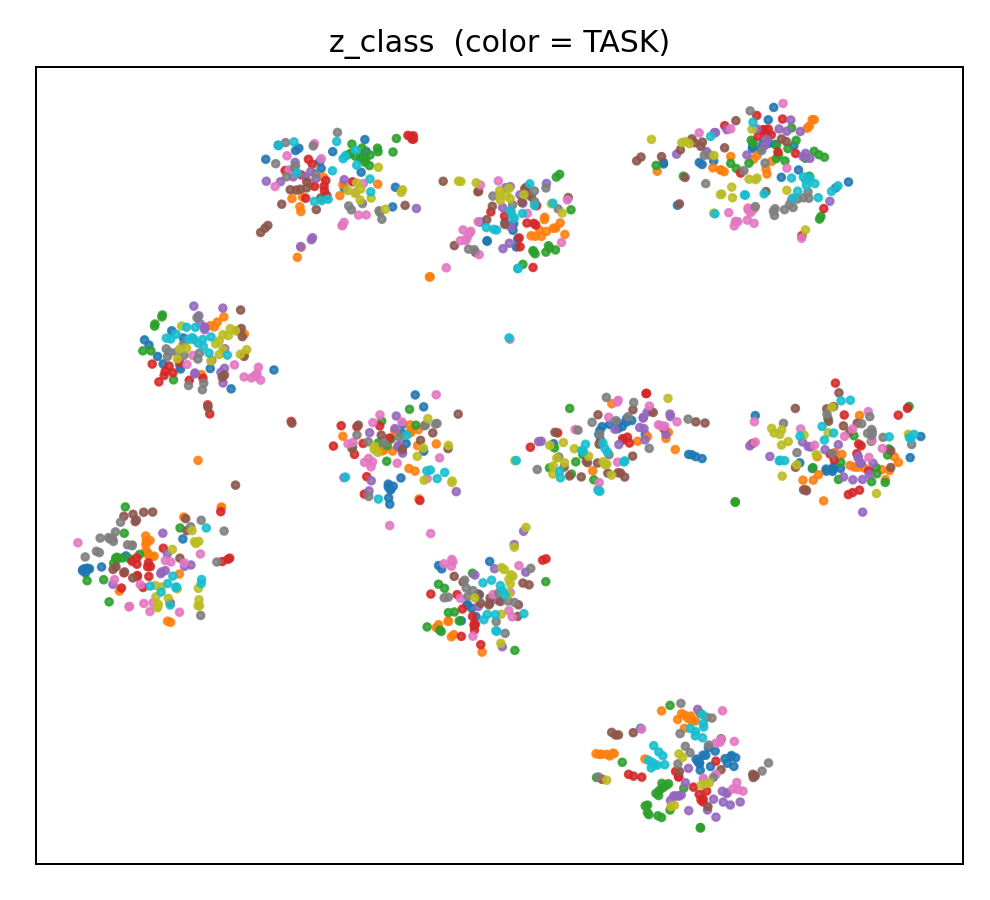
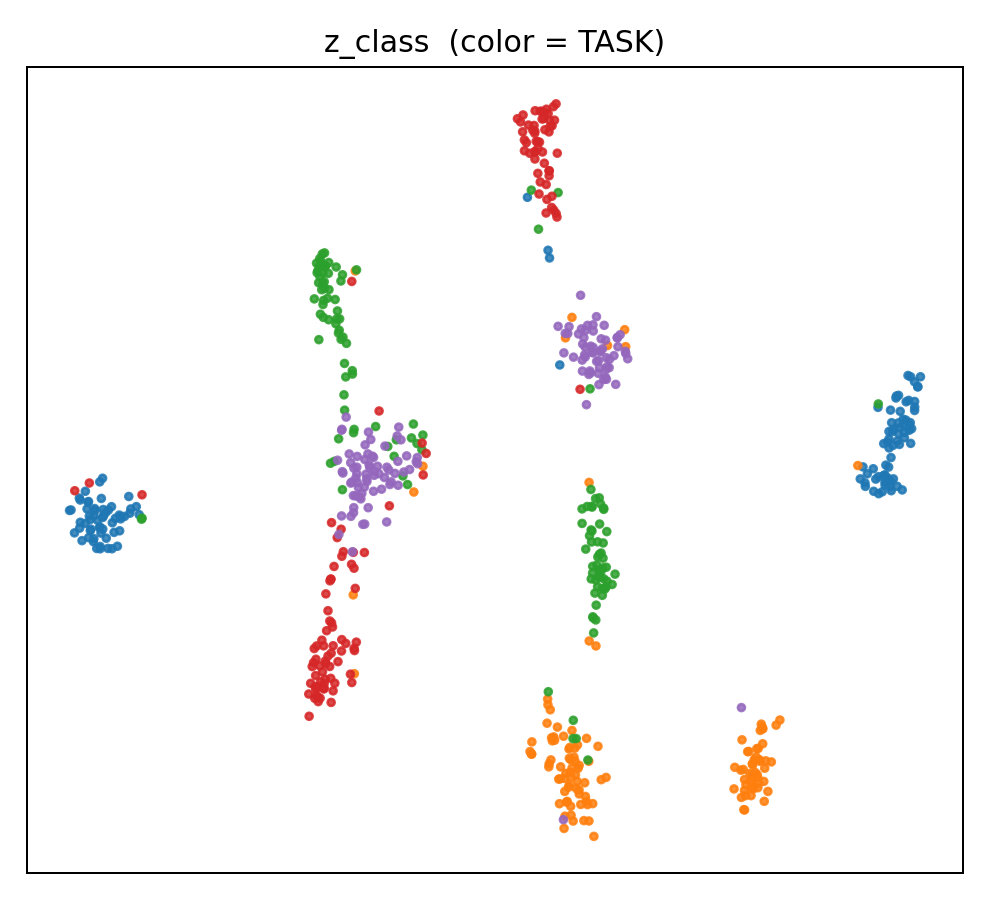
latest cnn shit

diff --git a/train_ot_manifold_buffer_cnn.py b/train_ot_manifold_buffer_cnn.py
@@ -18,7 +18,7 @@ T            = 5
 BATCH        = 128
 REPLAY_MB    = 128
 REPLAY_CAP   = 600           # total exemplars
-D_CLS, D_TSK = 128, 32
+D_CLS, D_TSK = 64, 192
 LR           = 1e-3
 EMA_ALPHA    = 0.98
 
@@ -40,10 +40,25 @@ class PMNIST(Dataset):
     def __len__(self): return len(self.base)
 
 class PermutedCIFAR10(Dataset):
-    def __init__(self, base, perm): self.base, self.perm = base, perm
-    def __getitem__(self, idx):
-        x,y = self.base[idx];  return x[:, self.perm], y
-    def __len__(self): return len(self.base)
+    def __init__(self, base, perm):
+        """
+        Args:
+            base: The base CIFAR-10 dataset (e.g., torchvision.datasets.CIFAR10).
+            perm: A 1D permutation tensor of size 32*32 = 1024, to apply to each channel.
+        """
+        assert perm.shape[0] == 32 * 32, "Permutation must be of length 1024"
+        self.base = base
+        self.perm = perm
+
+    def __getitem__(self, i):
+        x, y = self.base[i]  # x: [3, 32, 32], y: label
+        x = x.view(3, -1)     # Flatten spatial dims, shape: [3, 1024]
+        x = x[:, self.perm]   # Apply the same permutation to each channel
+        x = x.view(3, 32, 32) # Reshape back to image shape
+        return x, y
+
+    def __len__(self):
+        return len(self.base)
 
 class SplitMNIST(Dataset):
     def __init__(self, base, classes):
@@ -256,6 +271,68 @@ class OTHead(nn.Module):
         cent = Q @ self.P
         return cent
 
+#### RESNET #####
+
+class ResidualBlock(nn.Module):
+    def __init__(self, inchannel, outchannel, stride=1):
+        super(ResidualBlock, self).__init__()
+        self.left = nn.Sequential(
+            nn.Conv2d(inchannel, outchannel, kernel_size=3, stride=stride, padding=1, bias=False),
+            nn.BatchNorm2d(outchannel),
+            nn.ReLU(inplace=True),
+            nn.Conv2d(outchannel, outchannel, kernel_size=3, stride=1, padding=1, bias=False),
+            nn.BatchNorm2d(outchannel)
+        )
+        self.shortcut = nn.Sequential()
+        if stride != 1 or inchannel != outchannel:
+            self.shortcut = nn.Sequential(
+                nn.Conv2d(inchannel, outchannel, kernel_size=1, stride=stride, bias=False),
+                nn.BatchNorm2d(outchannel)
+            )
+            
+    def forward(self, x):
+        out = self.left(x)
+        out = out + self.shortcut(x)
+        out = F.relu(out)
+        
+        return out
+
+class ResNet(nn.Module):
+    def __init__(self, ResidualBlock, num_classes=10):
+        super(ResNet, self).__init__()
+        self.inchannel = 64
+        self.conv1 = nn.Sequential(
+            nn.Conv2d(3, 64, kernel_size=3, stride=1, padding=1, bias=False),
+            nn.BatchNorm2d(64),
+            nn.ReLU()
+        )
+        self.layer1 = self.make_layer(ResidualBlock, 64, 2, stride=1)
+        self.layer2 = self.make_layer(ResidualBlock, 128, 2, stride=2)
+        self.layer3 = self.make_layer(ResidualBlock, 256, 2, stride=2)        
+        self.layer4 = self.make_layer(ResidualBlock, 512, 2, stride=2)        
+        self.fc = nn.Linear(512, num_classes)
+        
+    def make_layer(self, block, channels, num_blocks, stride):
+        strides = [stride] + [1] * (num_blocks - 1)
+        layers = []
+        for stride in strides:
+            layers.append(block(self.inchannel, channels, stride))
+            self.inchannel = channels
+        return nn.Sequential(*layers)
+    
+    def forward(self, x):
+        out = self.conv1(x)
+        out = self.layer1(out)
+        out = self.layer2(out)
+        out = self.layer3(out)
+        out = self.layer4(out)
+        out = F.avg_pool2d(out, 4)
+        out = out.view(out.size(0), -1)
+        #out = self.fc(out)
+        return out
+
+####
+
 class BasicBlock(nn.Module):
     expansion = 1
 
@@ -361,50 +438,16 @@ class SimpleDLA(nn.Module):
 class Net(nn.Module):
     def __init__(self):
         super().__init__()
-        inc = 3
-        outc = 256
-        self.cnn = nn.Sequential(
-            # block 1
-            nn.Conv2d(inc, 32, kernel_size=3, padding=1),
-            nn.BatchNorm2d(32),
-            nn.ReLU(inplace=True),
-            nn.Conv2d(32, 64, kernel_size=3, padding=1),
-            nn.ReLU(inplace=True),
-            nn.MaxPool2d(kernel_size=2, stride=2),
-
-            # block 2
-            nn.Conv2d(64, 128, kernel_size=3, padding=1),
-            nn.BatchNorm2d(128),
-            nn.ReLU(inplace=True),
-            nn.Conv2d(128, 128, kernel_size=3, padding=1),
-            nn.ReLU(inplace=True),
-            nn.MaxPool2d(kernel_size=2, stride=2),
-            nn.Dropout2d(0.05),
-
-            # block 3
-            nn.Conv2d(128, outc, kernel_size=3, padding=1),
-            nn.BatchNorm2d(outc),
-            nn.ReLU(inplace=True),
-            nn.Conv2d(outc, outc, kernel_size=3, padding=1),
-            nn.ReLU(inplace=True),
-            nn.MaxPool2d(kernel_size=2, stride=2),
-        )
-
-        # inp = 4096
-        # self.backbone = nn.Sequential(
-        #     nn.Dropout(0.1),
-        #     nn.Linear(inp, 512), nn.ReLU(),
-        #     nn.Linear(512, 256), nn.ReLU(),
-        #     nn.Dropout(0.1),
-        #     nn.Linear(256, D_CLS + D_TSK)
-        # )
         self.backbone = nn.Sequential(
-            nn.Linear(512, 256), nn.ReLU(),
-            nn.Linear(256, D_CLS + D_TSK)
+            #nn.Linear(512, 256), nn.ReLU(),
+            nn.Linear(512, D_CLS + D_TSK), nn.ReLU()
         )
-        self.input_blk = SimpleDLA()
-        self.head = OTHead(D_TSK, K=15)
-        self.fc   = nn.Linear(D_CLS + D_TSK, 10)
+        self.input_blk = ResNet(ResidualBlock) #SimpleDLA()
+        self.head = OTHead(D_TSK, K=50)
+        self.fc   = nn.Sequential(
+            nn.Linear(D_CLS + D_TSK, 64), nn.ReLU(),
+            nn.Linear(64, 10)
+        )
     def forward(self, x, replay_z=None):
         # z_imm = self.cnn(x)
         # z_flat = z_imm.view(z_imm.size(0), -1)
